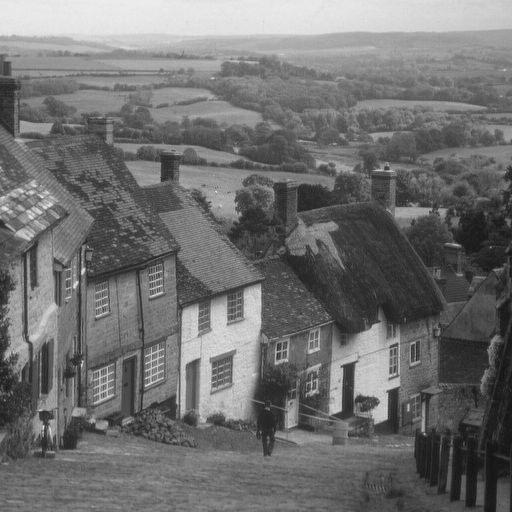
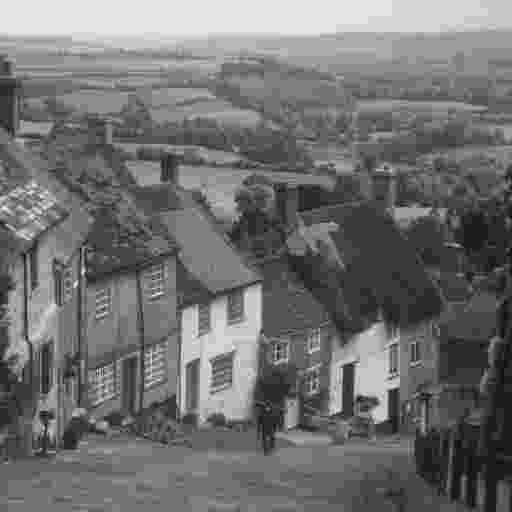
adds final version of distortions and images

diff --git a/distortions.py b/distortions.py
@@ -16,10 +16,9 @@ def sp_noise(image,prob):
                 output[i][j] = image[i][j]
     return output
 
-def gauss(image):
+def gauss(image,var):
     row,col = image.shape
     mean = 0
-    var = 100
     sigma = var**0.5
     gauss = np.random.normal(mean,sigma,(row,col))
     gauss = gauss.reshape(row,col)
@@ -27,10 +26,9 @@ def gauss(image):
     return noisy
 
 
-def speckle(image):
+def speckle(image,var):
     row,col = image.shape
     mean = 0
-    var = 0.04
     sigma = var**0.5
     gauss = np.random.normal(mean,sigma,(row,col))
     gauss = gauss.reshape(row,col)
@@ -47,23 +45,23 @@ def contrast_stretching(image):
     return output
 
 '''Goldhill image and its distortions'''
-goldhill = cv2.imread('imgs/goldhill/goldhill.png',-1)
+goldhill = cv2.imread('imgs/goldhill/goldhill.png',0)
 #jpg compression
-encode_param = [int(cv2.IMWRITE_JPEG_QUALITY), 80]
+encode_param = [int(cv2.IMWRITE_JPEG_QUALITY), 7]
 result, encimg = cv2.imencode('.jpg', goldhill, encode_param)
 goldhill_jpg = cv2.imdecode(encimg, 0)
 cv2.imwrite('imgs/goldhill/goldhill_jpg.png',goldhill_jpg)
 #gaussian noise
-goldhill_gaussian = gauss(goldhill)
+goldhill_gaussian = gauss(goldhill,100)
 cv2.imwrite('imgs/goldhill/goldhill_gaussian.png',goldhill_gaussian)
 #contrast stretching
 goldhill_cs = contrast_stretching(goldhill)
 cv2.imwrite('imgs/goldhill/goldhill_cs.png',goldhill_cs)
 #multiplicative speckle
-goldhill_speckle = speckle(goldhill)
+goldhill_speckle = speckle(goldhill,0.01)
 cv2.imwrite('imgs/goldhill/goldhill_speckle.png',goldhill_speckle)
 #blur
-goldhill_blur = cv2.blur(goldhill,(5,5))
+goldhill_blur = cv2.blur(goldhill,(6,6))
 cv2.imwrite('imgs/goldhill/goldhill_blur.png',goldhill_blur)
 #salt and pepper
 goldhill_sp = sp_noise(goldhill,0.004)
@@ -72,45 +70,45 @@ cv2.imwrite('imgs/goldhill/goldhill_sp.png',goldhill_sp)
 '''Lena image and its distortions'''
 lena = cv2.imread('imgs/lena/lena.png',0)
 #jpg compression
-encode_param = [int(cv2.IMWRITE_JPEG_QUALITY), 80]
+encode_param = [int(cv2.IMWRITE_JPEG_QUALITY), 3]
 result, encimg = cv2.imencode('.jpg', lena, encode_param)
 lena_jpg = cv2.imdecode(encimg, 0)
 cv2.imwrite('imgs/lena/lena_jpg.png',lena_jpg)
 #gaussian noise
-lena_gaussian = gauss(lena)
+lena_gaussian = gauss(lena,250)
 cv2.imwrite('imgs/lena/lena_gaussian.png',lena_gaussian)
 #contrast stretching
 lena_cs = contrast_stretching(lena)
 cv2.imwrite('imgs/lena/lena_cs.png',lena_cs)
 #multiplicative speckle
-lena_speckle = speckle(lena)
+lena_speckle = speckle(lena,0.01)
 cv2.imwrite('imgs/lena/lena_speckle.png',lena_speckle)
 #blur
-lena_blur = cv2.blur(lena,(5,5))
+lena_blur = cv2.blur(lena,(12,12))
 cv2.imwrite('imgs/lena/lena_blur.png',lena_blur)
 #salt and pepper
-lena_sp = sp_noise(lena,0.004)
+lena_sp = sp_noise(lena,0.007)
 cv2.imwrite('imgs/lena/lena_sp.png',lena_sp)
 
 '''Couple image and its distortions'''
 couple = cv2.imread('imgs/couple/couple.png',0)
 #jpg compression
-encode_param = [int(cv2.IMWRITE_JPEG_QUALITY), 80]
+encode_param = [int(cv2.IMWRITE_JPEG_QUALITY), 10]
 result, encimg = cv2.imencode('.jpg', couple, encode_param)
 couple_jpg = cv2.imdecode(encimg, 0)
 cv2.imwrite('imgs/couple/couple_jpg.png',couple_jpg)
 #gaussian noise
-couple_gaussian = gauss(couple)
+couple_gaussian = gauss(couple,100)
 cv2.imwrite('imgs/couple/couple_gaussian.png',couple_gaussian)
 #contrast stretching
 couple_cs = contrast_stretching(couple)
 cv2.imwrite('imgs/couple/couple_cs.png',couple_cs)
 #multiplicative speckle
-couple_speckle = speckle(couple)
+couple_speckle = speckle(couple,0.004)
 cv2.imwrite('imgs/couple/couple_speckle.png',couple_speckle)
 #blur
-couple_blur = cv2.blur(couple,(5,5))
+couple_blur = cv2.blur(couple,(3,3))
 cv2.imwrite('imgs/couple/couple_blur.png',couple_blur)
 #salt and pepper
-couple_sp = sp_noise(couple,0.004)
+couple_sp = sp_noise(couple,0.0025)
 cv2.imwrite('imgs/couple/couple_sp.png',couple_sp)
